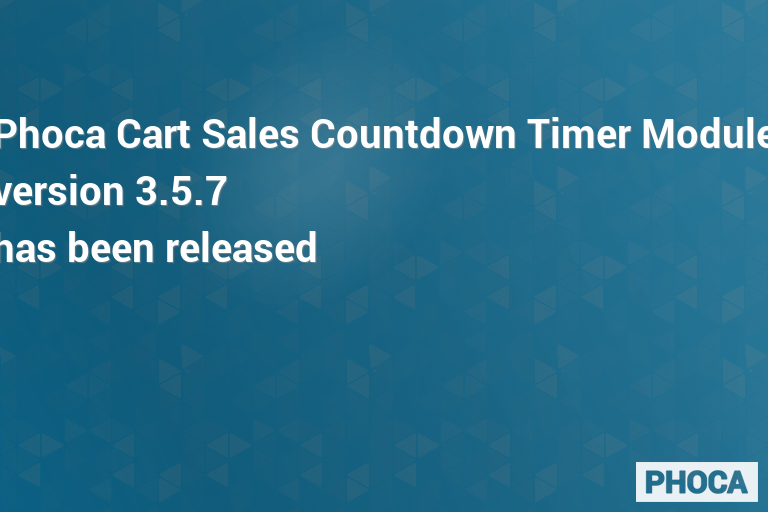
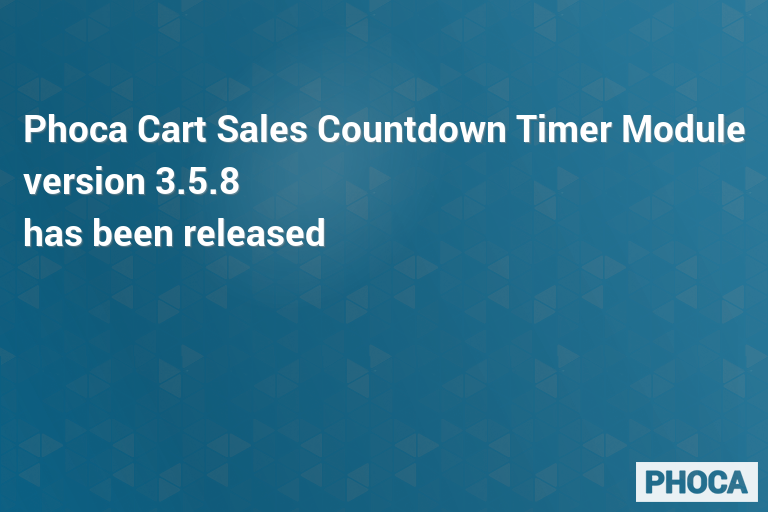
3.5.8
3.5.8

Changed region(s): [[0.0, 0.2188, 1.0, 0.5312]]

diff --git a/README.MD b/README.MD
@@ -58,7 +58,7 @@ Phoca Cart Sales Countdown Timer Module - a Joomla! CMS module which displays sa
 
 ## Version
 
-3.5.7
+3.5.8
 
 
 
